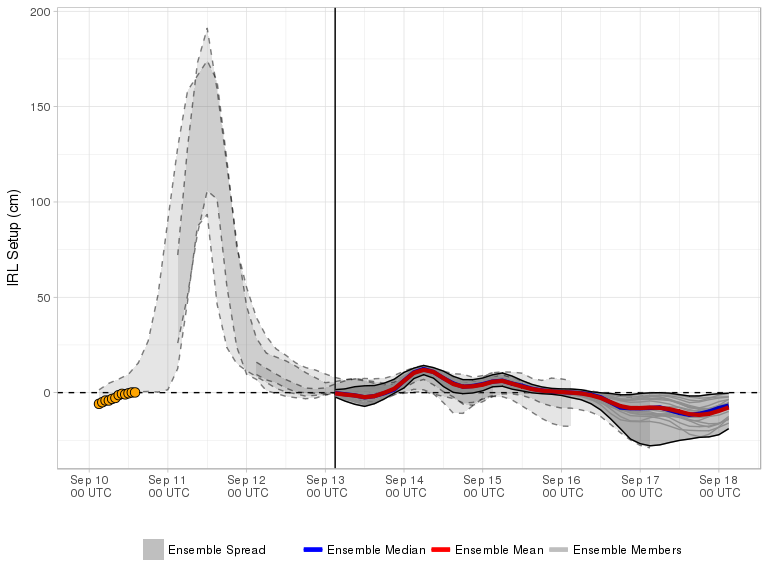
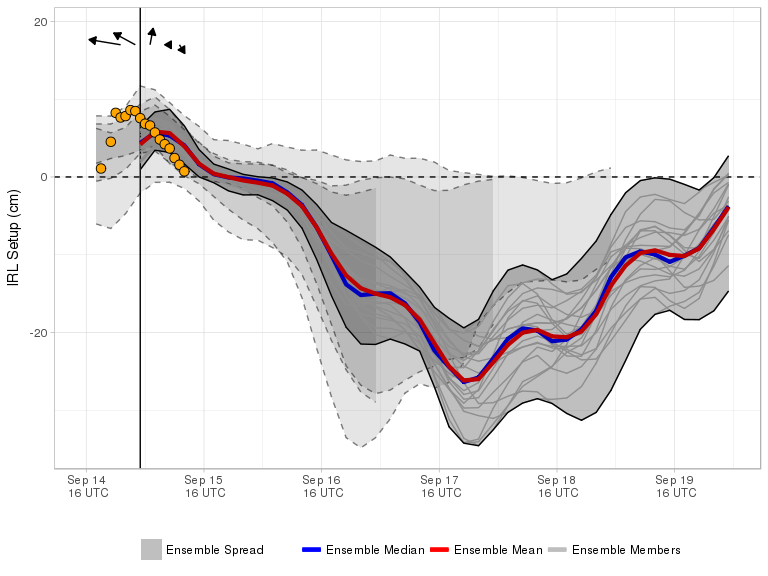
forecast update

diff --git a/docs/index.md b/docs/index.md
@@ -3,7 +3,7 @@ Current Forecast
 
 [![](img/raw_setup.png)](https://fit-winds.github.io/IRLSetup/img/raw_setup.png)
 
-> Forecast valid 2017-09-13 08:21:41.
+> Forecast valid 2017-09-15 08:23:44.
 
 Explanation
 -----------
@@ -17,7 +17,7 @@ star), and Sebastian, FL (white star). In general, southerly (northerly)
 winds result in increased water elevation near Titusville (Sebastian)
 and positive (negative) setup.
 
-The current (18 UTC 2017-09-12) 0.5° [Global Ensemble Forecast System
+The current (18 UTC 2017-09-14) 0.5° [Global Ensemble Forecast System
 (GEFS)](https://www.ncdc.noaa.gov/data-access/model-data/model-datasets/global-ensemble-forecast-system-gefs)
 mean and median forecasts of setup are represented by the red and blue
 curves, respectively. Ensemble spread from the current and three
